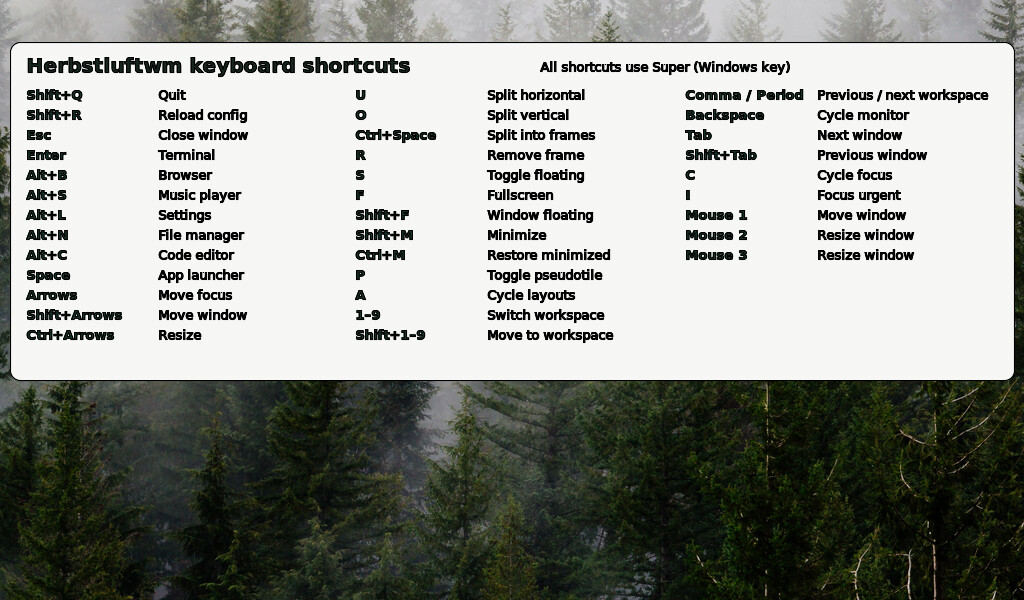
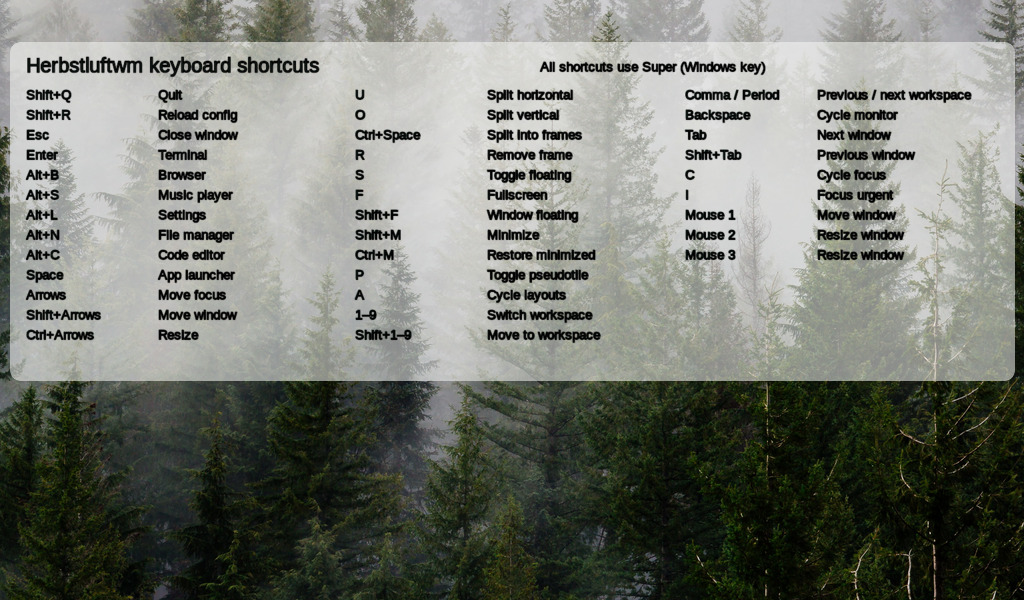
Adapt desktop configuration to available hardware

diff --git a/README.md b/README.md
@@ -155,6 +155,8 @@ alternatives, not a sequence to execute in full.
 On an active 1024×600 display, the herbstluftwm autostart selects the
 compact Polybar configuration and a dedicated wallpaper with readable shortcut
 labels. Other resolutions use the regular wallpaper and panel configuration.
+The X server manages connected displays, while Polybar discovers wired and
+wireless interfaces by type instead of requiring machine-specific names.
 
 ### Package and download behavior
 
@@ -181,6 +183,9 @@ The console modes (`-c`, `-k`, and `-a`) also:
 The font modes (`-k`, `-g`, and `-a`) download the Fira Code Nerd Fonts ZIP from
 release `v3.4.0`, extract it into `~/.local/share/fonts`, and run `fc-cache -f`.
 The download temporarily uses `Fira_Code.zip` in the current working directory.
+
+The desktop modes install Alacritty only when an apt package is available;
+xterm remains available as a terminal otherwise.
 
 Desktop dependencies include herbstluftwm, Polybar, xterm, xwallpaper, rofi,
 lxappearance, Alacritty, ssh-askpass, Noto fonts, emoji fonts, and Font Awesome.
